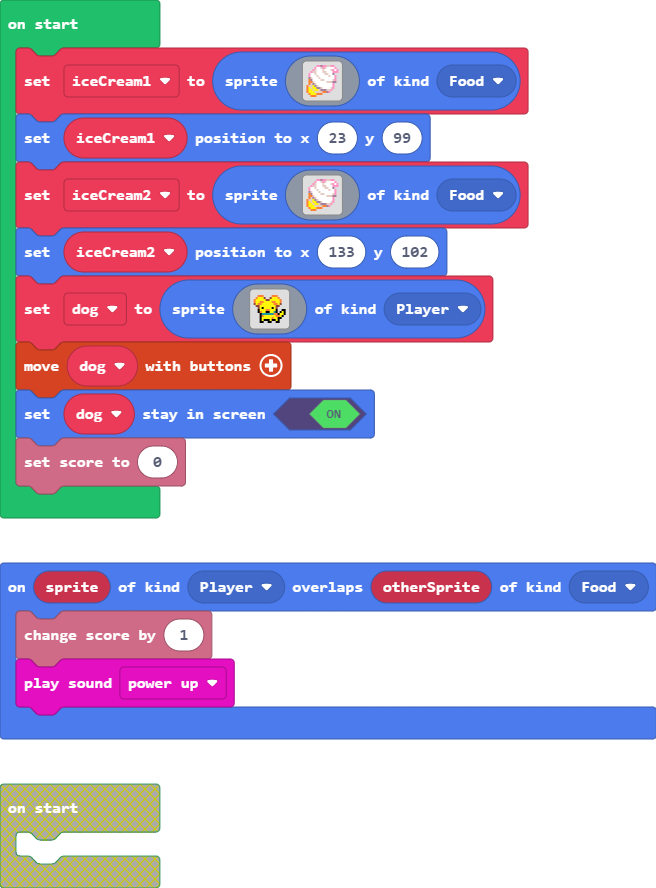
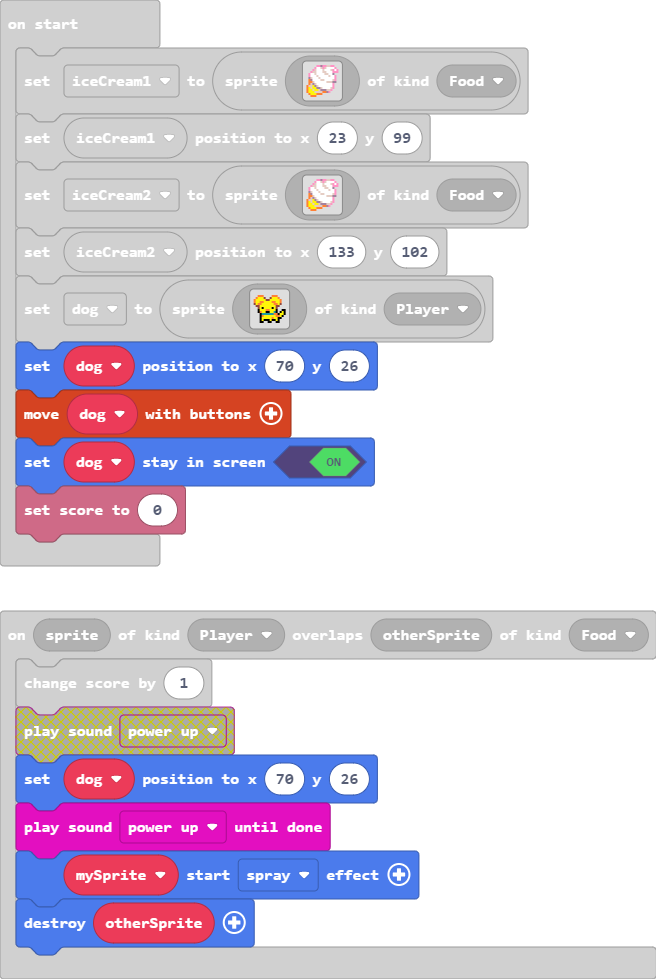
Update main.blocks, main.ts

diff --git a/main.ts b/main.ts
@@ -1,7 +1,12 @@
 sprites.onOverlap(SpriteKind.Player, SpriteKind.Food, function (sprite, otherSprite) {
+    let mySprite: Sprite = null
     info.changeScoreBy(1)
-    music.powerUp.play()
+    dog.setPosition(70, 26)
+    music.powerUp.playUntilDone()
+    mySprite.startEffect(effects.spray)
+    otherSprite.destroy()
 })
+let dog: Sprite = null
 let iceCream1 = sprites.create(img`
     . . . . . 3 3 b 3 3 d d 3 3 . . 
     . . . . 3 1 1 d 3 d 1 1 1 1 3 . 
@@ -40,7 +45,7 @@ let iceCream2 = sprites.create(img`
     . . 4 4 4 . . . . . . . . . . . 
     `, SpriteKind.Food)
 iceCream2.setPosition(133, 102)
-let dog = sprites.create(img`
+dog = sprites.create(img`
     . . 4 4 4 . . . . 4 4 4 . . . . 
     . 4 5 5 5 e . . e 5 5 5 4 . . . 
     4 5 5 5 5 5 e e 5 5 5 5 5 4 . . 
@@ -56,6 +61,7 @@ let dog = sprites.create(img`
     . . . f 5 f f f 5 f f 5 f . . . 
     . . . f f . . f f . . f f . . . 
     `, SpriteKind.Player)
+dog.setPosition(70, 26)
 controller.moveSprite(dog)
 dog.setStayInScreen(true)
 info.setScore(0)
